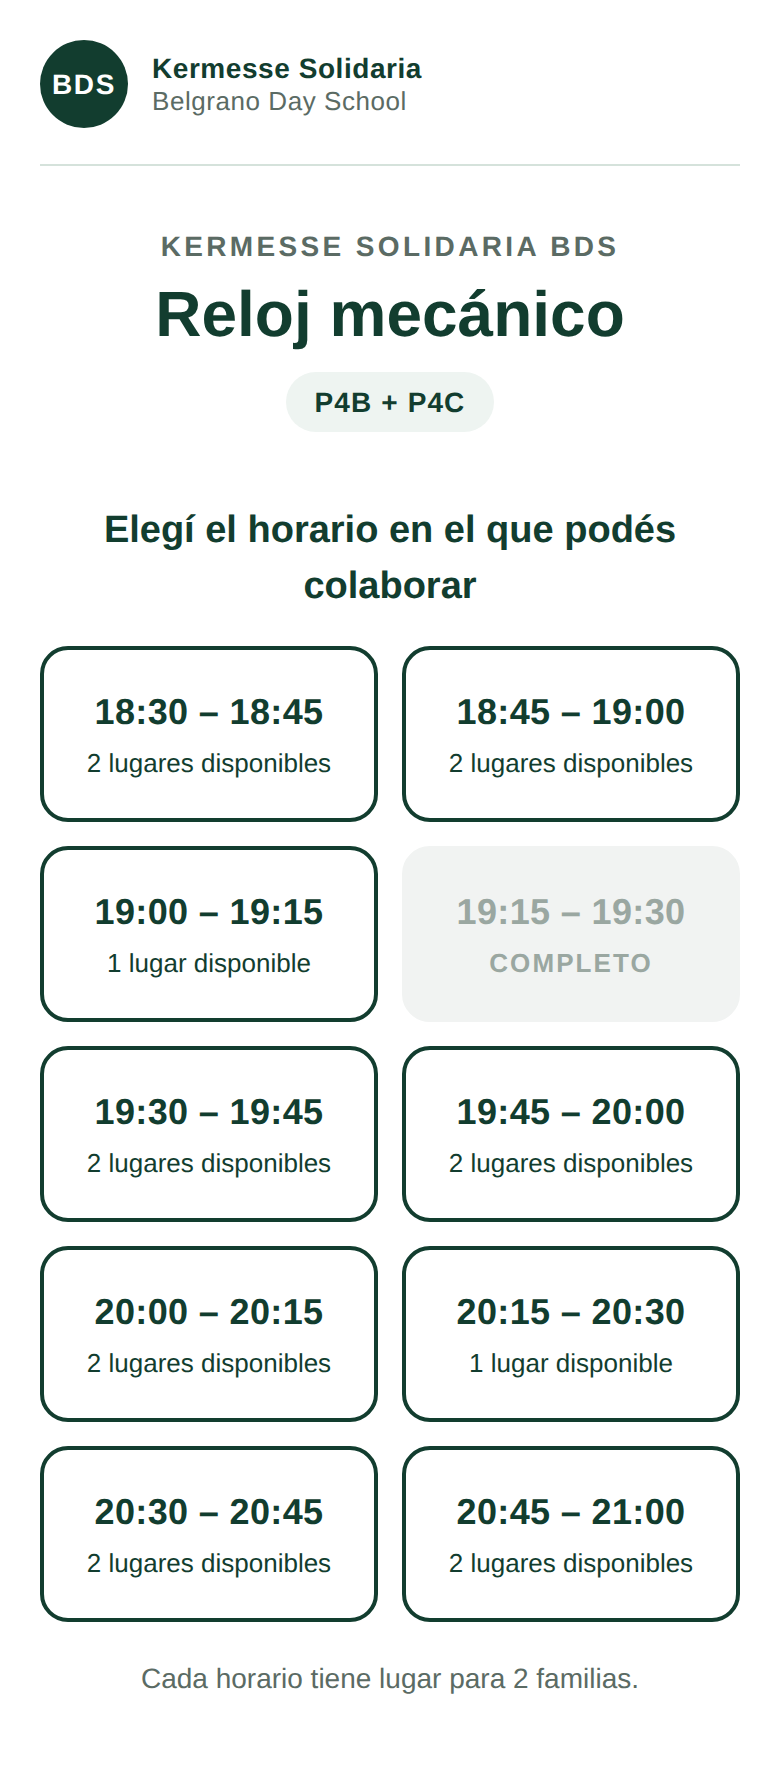
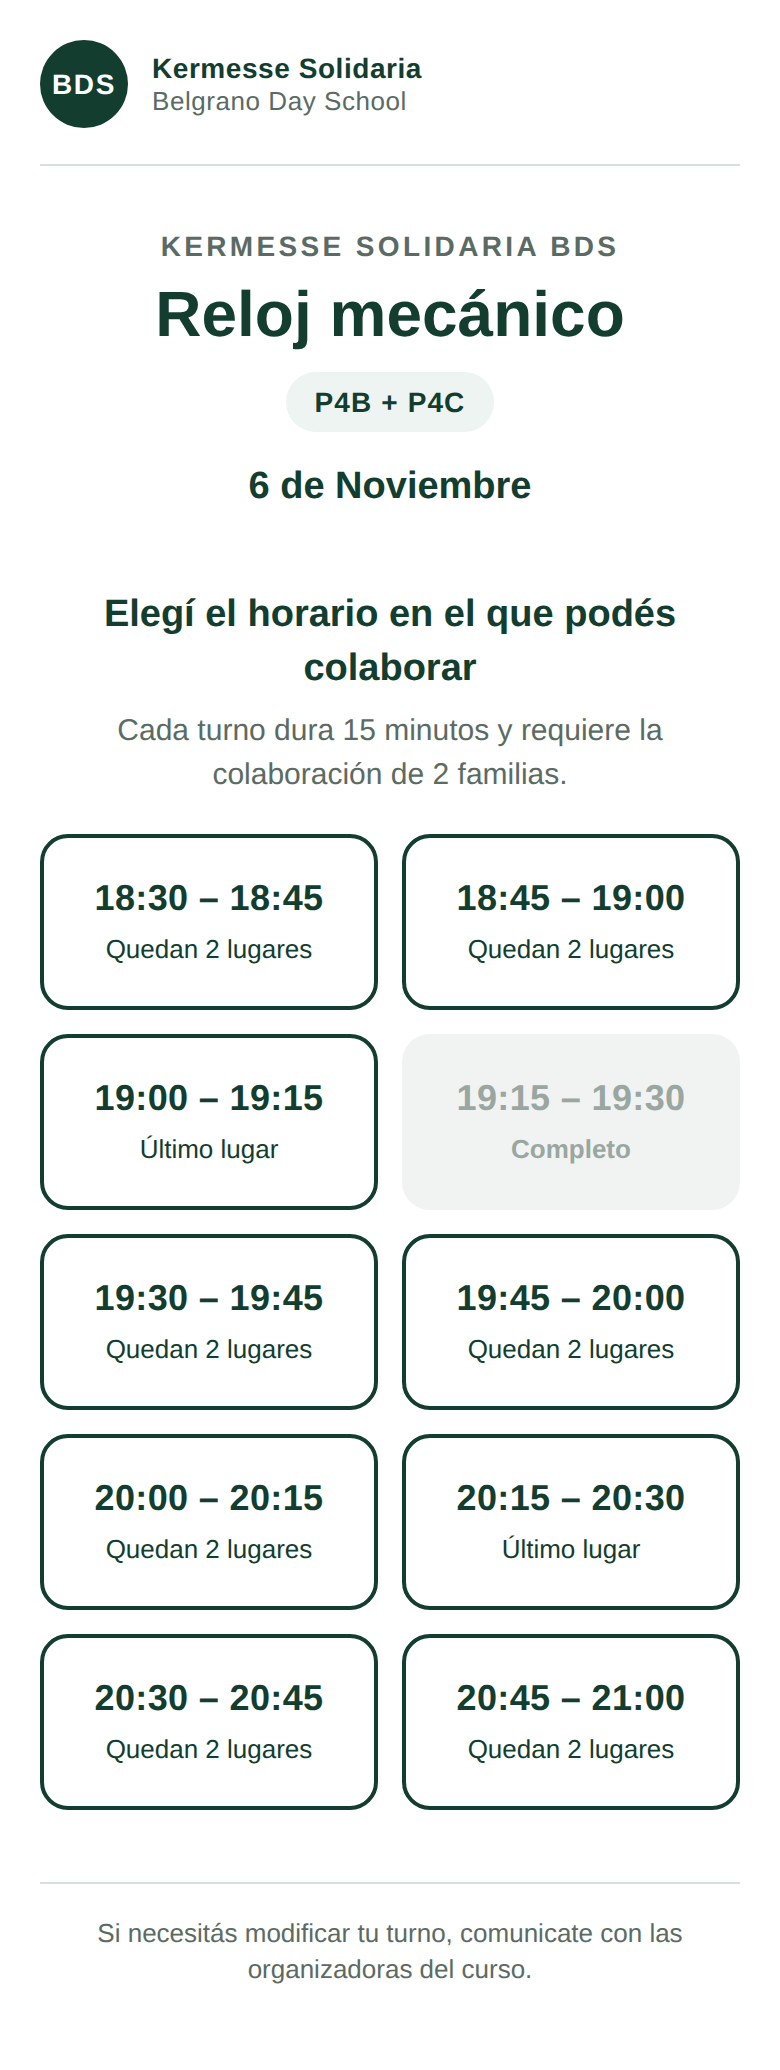
Kermesse: una familia por turno, fecha del evento y nuevos textos
- Backend: dentro del mismo lock, rechaza la reserva si ese celular ya tiene
  turno (comparación sin importar formato: +54, 9, 0, 15, espacios, guiones)
  y devuelve el horario que ya tiene.
- Fecha del evento configurable (FECHA_EVENTO) en pantalla principal,
  formulario y confirmación.
- Textos de disponibilidad, subtítulo, confirmación con grado, frase
  destacada de captura y pie de cambios/cancelaciones.
- INSTRUCCIONES: prueba de familia duplicada, cambios manuales en la
  planilla, aviso de la franja de Google.

Claude-Session: https://claude.ai/code/session_01CUNW3mq2FiesF5fzT89GA8

diff --git a/kermesse-reloj/Index.html b/kermesse-reloj/Index.html
@@ -68,7 +68,9 @@
       color: var(--verde);
       font-size: 14px; font-weight: 600; letter-spacing: .04em;
     }
-    .consigna { margin: 28px 0 16px; font-size: 19px; font-weight: 600; color: var(--verde); text-align: center; }
+    .fecha { margin: 14px 0 0; font-size: 19px; font-weight: 600; color: var(--verde); }
+    .consigna { margin: 28px 0 6px; font-size: 19px; font-weight: 600; color: var(--verde); text-align: center; }
+    .detalle { margin: 0 0 18px; font-size: 15px; color: var(--texto-sec); text-align: center; }
 
     /* ───────── Grilla de horarios ───────── */
     .grilla { display: grid; grid-template-columns: 1fr 1fr; gap: 12px; }
@@ -102,7 +104,7 @@
       background: var(--apagado-fondo);
       color: var(--apagado-texto);
     }
-    .turno:disabled .lugares { font-weight: 700; letter-spacing: .08em; }
+    .turno:disabled .lugares { font-weight: 700; }
 
     .turno.cargando {
       border-color: var(--verde-linea);
@@ -124,6 +126,8 @@
     }
     .aviso[hidden] { display: none; }
     .nota { margin: 18px 0 0; text-align: center; color: var(--texto-sec); font-size: 14px; }
+    .nota:empty { display: none; }
+    .aviso .aviso-detalle { display: block; margin-top: 4px; font-weight: 400; }
 
     /* ───────── Formulario ───────── */
     .volver {
@@ -143,6 +147,7 @@
     .resumen .etiqueta { font-size: 13px; letter-spacing: .1em; text-transform: uppercase; opacity: .8; }
     .resumen .valor { font-size: 28px; font-weight: 700; margin-top: 4px; }
     .resumen .puesto-chico { font-size: 15px; opacity: .9; margin-top: 2px; }
+    .resumen .fecha-chica { font-size: 16px; font-weight: 600; margin-top: 4px; }
 
     .campo { margin-bottom: 20px; }
     .campo label, .campo .rotulo { display: block; margin-bottom: 8px; font-size: 16px; font-weight: 600; color: var(--verde); }
@@ -205,6 +210,15 @@
     }
     .ok h2 { margin: 0 0 6px; font-size: 28px; color: var(--verde); }
     .ok .sub { margin: 0 0 24px; color: var(--texto-sec); font-size: 17px; }
+    .destacado {
+      margin: 20px 0 0;
+      padding: 16px 18px;
+      border-radius: var(--radio);
+      background: var(--verde-suave);
+      color: var(--verde);
+      font-size: 16px; font-weight: 600;
+      text-align: center;
+    }
     .ficha {
       text-align: left;
       border: 2px solid var(--verde);
@@ -215,7 +229,17 @@
     .ficha div:last-child { border-bottom: 0; }
     .ficha span { display: block; font-size: 13px; letter-spacing: .08em; text-transform: uppercase; color: var(--texto-sec); }
     .ficha strong { display: block; font-size: 20px; color: var(--verde); margin-top: 2px; word-break: break-word; }
-    .despedida { margin: 28px 0 6px; font-size: 18px; font-weight: 600; color: var(--verde); }
+    .despedida { margin: 28px 0 0; font-size: 19px; font-weight: 700; color: var(--verde); }
+
+    /* ───────── Pie ───────── */
+    .pie {
+      margin-top: 36px;
+      padding-top: 16px;
+      border-top: 1px solid var(--verde-linea);
+      text-align: center;
+      font-size: 13px;
+      color: var(--texto-sec);
+    }
 
     [hidden] { display: none !important; }
   </style>
@@ -239,15 +263,17 @@
         <p class="evento">Kermesse Solidaria BDS</p>
         <h1 class="puesto">Reloj mecánico</h1>
         <span class="grados">P4B + P4C</span>
+        <p class="fecha"><?= fecha ?></p>
       </section>
 
       <p class="consigna">Elegí el horario en el que podés colaborar</p>
+      <p class="detalle">Cada turno dura 15 minutos y requiere la colaboración de 2 familias.</p>
 
       <p id="aviso-turnos" class="aviso" role="alert" hidden></p>
 
       <div id="grilla" class="grilla" aria-live="polite"></div>
 
-      <p class="nota" id="nota-turnos">Cada horario tiene lugar para 2 familias.</p>
+      <p class="nota" id="nota-turnos"></p>
     </main>
 
     <!-- ═════════ PANTALLA 2: FORMULARIO ═════════ -->
@@ -256,6 +282,7 @@
 
       <div class="resumen">
         <div class="etiqueta">Tu horario</div>
+        <div class="fecha-chica"><?= fecha ?></div>
         <div class="valor" id="resumen-horario"></div>
         <div class="puesto-chico">Reloj mecánico</div>
       </div>
@@ -300,17 +327,25 @@
         <svg width="34" height="34" viewBox="0 0 24 24" fill="none" stroke="#FFFFFF" stroke-width="3" stroke-linecap="round" stroke-linejoin="round"><polyline points="20 6 9 17 4 12"></polyline></svg>
       </div>
       <h2>¡Gracias por sumarte!</h2>
-      <p class="sub">Tu turno quedó reservado.</p>
+      <p class="sub">Tu turno quedó reservado</p>
 
       <div class="ficha">
         <div><span>Puesto</span><strong>Reloj mecánico</strong></div>
+        <div><span>Fecha</span><strong><?= fecha ?></strong></div>
         <div><span>Horario</span><strong id="ok-horario"></strong></div>
         <div><span>Familia</span><strong id="ok-familia"></strong></div>
+        <div><span>Grado</span><strong id="ok-grado"></strong></div>
       </div>
 
-      <p class="despedida">Nos vemos en la Kermesse Solidaria BDS</p>
-      <p class="nota">Te sugerimos sacarle una captura a esta pantalla.</p>
+      <p class="destacado">Te recomendamos sacar una captura de esta pantalla para recordar tu turno.</p>
+
+      <p class="despedida">¡Nos vemos en la Kermesse Solidaria BDS!</p>
     </main>
+
+    <!-- PIE: visible en todas las pantallas -->
+    <footer class="pie">
+      Si necesitás modificar tu turno, comunicate con las organizadoras del curso.
+    </footer>
 
   </div>
 
@@ -334,9 +369,15 @@
         window.scrollTo(0, 0);
       }
 
-      function aviso(id, texto) {
+      function aviso(id, texto, detalle) {
         var el = $(id);
         el.textContent = texto || '';
+        if (texto && detalle) {
+          var d = document.createElement('span');
+          d.className = 'aviso-detalle';
+          d.textContent = detalle;
+          el.appendChild(d);
+        }
         el.hidden = !texto;
       }
 
@@ -354,8 +395,8 @@
       }
 
       function textoLugares(n) {
-        if (n <= 0) return 'COMPLETO';
-        return n === 1 ? '1 lugar disponible' : n + ' lugares disponibles';
+        if (n <= 0) return 'Completo';
+        return n === 1 ? 'Último lugar' : 'Quedan ' + n + ' lugares';
       }
 
       function pintarTurnos() {
@@ -388,7 +429,7 @@
         } else if (!hayLugar) {
           $('nota-turnos').textContent = 'Todos los horarios están completos. ¡Gracias a todas las familias!';
         } else {
-          $('nota-turnos').textContent = 'Cada horario tiene lugar para 2 familias.';
+          $('nota-turnos').textContent = '';
         }
       }
 
@@ -519,8 +560,12 @@
             if (res && res.ok) {
               $('ok-horario').textContent = res.horario;
               $('ok-familia').textContent = res.familia;
+              $('ok-grado').textContent = res.grado;
               clearInterval(temporizador);
               mostrar('ok');
+            } else if (res && res.codigo === 'YA_RESERVADO') {
+              aviso('aviso-form', res.mensaje, 'Horario reservado: ' + res.horario);
+              window.scrollTo(0, 0);
             } else if (res && (res.codigo === 'COMPLETO' || res.codigo === 'CERRADO')) {
               volverPorCompleto(res.mensaje);
               cargar(true);

diff --git a/kermesse-reloj/INSTRUCCIONES.md b/kermesse-reloj/INSTRUCCIONES.md
@@ -1,6 +1,6 @@
 # Reservas de turnos · Kermesse Solidaria BDS · Reloj mecánico (P4B + P4C)
 
-Mini web para que cada familia reserve un turno de 15 minutos (18:30 a 21:00, hasta 2 familias por turno).
+Mini web para que cada familia reserve **un** turno de 15 minutos el **6 de Noviembre** (18:30 a 21:00, hasta 2 familias por turno).
 Los datos se guardan en un Google Sheet que **solo vos** ves.
 
 **Archivos:**
@@ -67,9 +67,10 @@ Al terminar, volvé a la planilla: la pestaña **Reservas** tiene que tener la f
 ### 7. Probarlo antes de mandarlo
 1. **Implementar → Probar implementaciones** → copiá la URL que termina en `/dev` y abrila. Es una versión de prueba que solo vos podés abrir.
 2. Hacé una reserva de prueba y fijate que aparezca en la planilla.
-3. Hacé una segunda reserva en el **mismo horario** con otro celular → tiene que pasar a **COMPLETO**.
+3. Hacé una segunda reserva en el **mismo horario** con otro celular → tiene que pasar a **Completo**.
 4. Intentá una tercera en ese horario desde otra pestaña que ya tenías abierta de antes → tiene que decir *"Ese horario acaba de completarse…"*.
-5. **Borrá las filas de prueba** de la planilla (clic derecho sobre el número de fila → Eliminar fila). No borres la fila 1 de títulos.
+5. Intentá reservar **otro horario con el primer celular**, escrito distinto (por ejemplo `+54 9 11…` en vez de `11…`) → tiene que decir *"Esta familia ya tiene un turno reservado."* y mostrar el horario que ya tiene.
+6. **Borrá las filas de prueba** de la planilla (clic derecho sobre el número de fila → Eliminar fila). No borres la fila 1 de títulos.
 
 ### 8. Publicarlo como Web App
 En el editor de Apps Script: **Implementar → Nueva implementación**.
@@ -93,9 +94,11 @@ Tocá **Implementar**.
 Aparece una **URL de la aplicación web** que termina en **`/exec`**. Esa es la que va a WhatsApp.
 Copiala (botón Copiar) y abrila vos primero desde tu celular para chequear.
 
+Al abrirlo vas a ver arriba una franja gris de Google que dice algo como *"Esta aplicación fue creada por un usuario de Google Apps Script"*. Es normal con cuentas de Gmail y no se puede sacar; no afecta el funcionamiento.
+
 Mensaje sugerido:
 
-> ¡Hola familias de P4B y P4C! 🕰 Para la Kermesse Solidaria BDS estamos a cargo del **Reloj mecánico**. Necesitamos 2 familias por turno de 15 minutos, de 18:30 a 21:00.
+> ¡Hola familias de P4B y P4C! 🕰 Para la Kermesse Solidaria BDS del 6 de Noviembre estamos a cargo del **Reloj mecánico**. Necesitamos 2 familias por turno de 15 minutos, de 18:30 a 21:00.
 > Reservá tu horario acá (lleva 1 minuto): https://script.google.com/macros/s/……/exec
 > ¡Gracias!
 
@@ -112,8 +115,14 @@ Así el link `/exec` queda **igual** y ya muestra los cambios. (Si hacés "Nueva
 - **Agregar el logo:** subí el logo a Google Drive → clic derecho → Compartir → "Cualquier persona con el vínculo" → copiá el ID del archivo (la parte larga del link entre `/d/` y `/view`) y poné:
   `var LOGO_URL = 'https://lh3.googleusercontent.com/d/ID_DEL_ARCHIVO';`
   (También sirve cualquier link directo a una imagen PNG/SVG, por ejemplo del sitio del colegio.)
+- **Cambiar la fecha:** `var FECHA_EVENTO = '6 de Noviembre';` (se actualiza en las tres pantallas).
 - **Cambiar el cupo:** `var CUPO_POR_TURNO = 2;`
-- **Cancelar una reserva:** borrá la fila en la planilla. El lugar se libera solo.
+
+## Cambios y cancelaciones (los hacés vos, en la planilla)
+Las familias ven al pie: *"Si necesitás modificar tu turno, comunicate con las organizadoras del curso."*
+- **Cancelar:** borrá la fila de esa familia (clic derecho sobre el número de fila → Eliminar fila). El lugar se libera solo y la familia puede volver a reservar desde la web.
+- **Cambiar de horario:** editá la celda de **Horario** de esa fila, copiando el texto exacto de otro turno (por ejemplo `19:30 – 19:45`). Fijate antes que ese horario tenga lugar: la planilla **no** te frena si pasás de 2.
+- **Una familia que cubre dos turnos:** agregá vos una fila nueva al final con Horario, Familia, Grado y Celular. La web solo bloquea las reservas que hacen las familias; lo que cargues a mano se respeta. Esa fila ocupa uno de los 2 lugares del horario.
 
 ## ¿Separar CSS y JavaScript?
 No lo recomiendo para este caso: con un solo `Index.html` hay menos cosas para pegar y menos que se pueda romper. Si alguna vez lo querés hacer:
@@ -134,7 +143,8 @@ No lo recomiendo para este caso: con un solo `Index.html` hay menos cosas para p
 |---|---|
 | **Máximo 2 familias por horario** | El servidor recuenta las reservas de ese horario justo antes de guardar. Si ya hay 2, rechaza. La pantalla no decide nada. Además valida que el horario sea uno de los 10 existentes. |
 | **Varias personas al mismo tiempo** | `LockService`: las reservas se procesan **de a una**. Si dos familias tocan "Reservar" en el mismo segundo por el último lugar, la primera entra y la segunda recibe *"Ese horario acaba de completarse…"* y la lista se actualiza. El bloqueo se libera siempre, aunque haya un error. Si hay muchísima gente a la vez, cada una espera unos segundos; si pasan 20 s sin turno, se le pide reintentar. |
-| **Doble toque / se cortó internet** | El botón se desactiva mientras reserva. Y si el mismo celular reserva dos veces el mismo horario (p. ej. reintentó tras un corte), no se duplica: se confirma la reserva que ya existe. |
+| **Una familia = un turno** | Antes de guardar, con el bloqueo tomado, el servidor busca si ese celular ya tiene una reserva en cualquier horario. Si la tiene, no guarda y muestra *"Esta familia ya tiene un turno reservado."* con el horario que ya tiene. El celular se compara sin importar el formato: `+54 9 11 5555-5555`, `011 15 5555 5555` y `11 5555 5555` cuentan como el mismo. |
+| **Doble toque / se cortó internet** | El botón se desactiva mientras reserva. Si alguien reintenta después de un corte y la primera reserva sí se había guardado, no se duplica: le aparece el aviso de que ya tiene turno, con su horario. |
 | **Privacidad** | La web solo recibe `horario` + `lugares disponibles`. Nombres y celulares nunca viajan al navegador de otra familia. El Sheet no se comparte con nadie. Las funciones internas (terminan en `_`) no se pueden llamar desde afuera. |
 | **Planilla protegida** | Si alguien escribe algo como `=FÓRMULA` en el nombre, se limpia para que no se ejecute en tu planilla. Celular y horario se guardan como texto (no se "rompen" los +54 ni los ceros). |
 | **Safari y Chrome en celulares** | Textos de campos en 17 px (evita el zoom automático del iPhone), teclado numérico para el celular, botones de 54–88 px de alto, `viewport` configurado desde el servidor (Apps Script ignora el del HTML), nada de funciones modernas que fallen en iPhones viejos. Probado en pantallas de 390 px y 320 px. |
@@ -143,5 +153,5 @@ No lo recomiendo para este caso: con un solo `Index.html` hay menos cosas para p
 
 ## Lo que la app **no** hace (para que lo sepas)
 - **No envía confirmación por WhatsApp ni por mail.** Por eso la pantalla final sugiere sacar captura. Si querés recordatorios, se puede exportar la planilla y mandarlos a mano el día anterior.
-- **No evita que una misma familia reserve dos horarios distintos.** Lo dejé así a propósito (hay familias que quieren colaborar más). Si preferís limitarlo, avisame.
-- **Las familias no pueden cancelar solas.** Te escriben y vos borrás la fila.
+- **Las familias no pueden cancelar ni cambiar solas.** Te escriben y lo hacés vos en la planilla (ver "Cambios y cancelaciones").
+- **La familia se identifica por el celular, no por el apellido.** Si una misma familia reserva dos veces con **dos celulares distintos** (mamá y papá), la web no se da cuenta. Conviene mirar la planilla ordenada por Familia un par de días antes.
